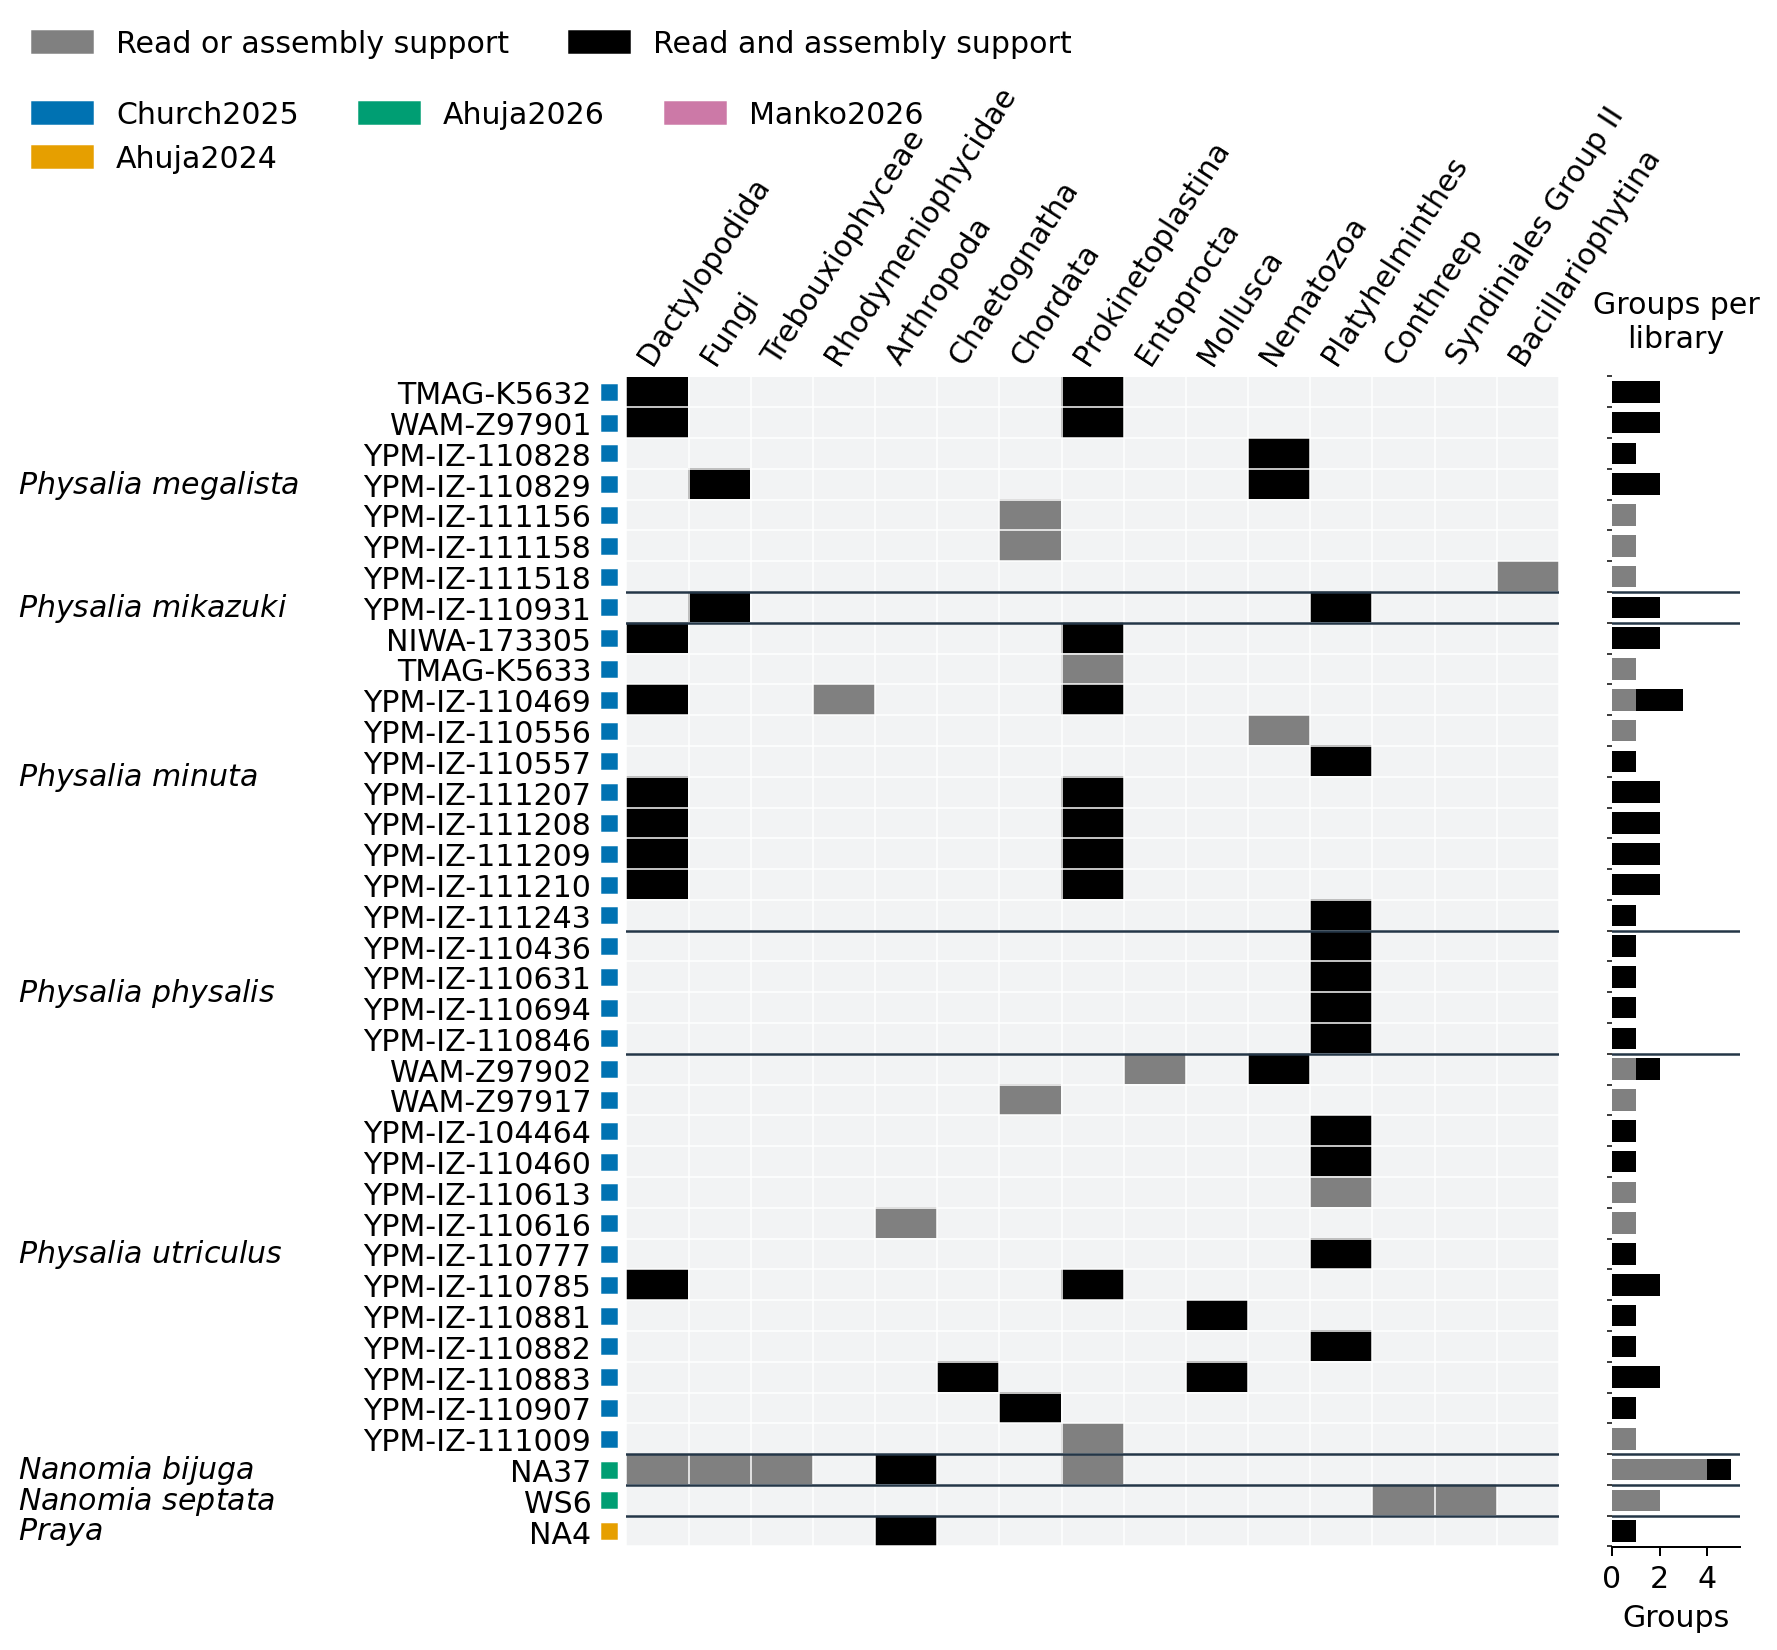
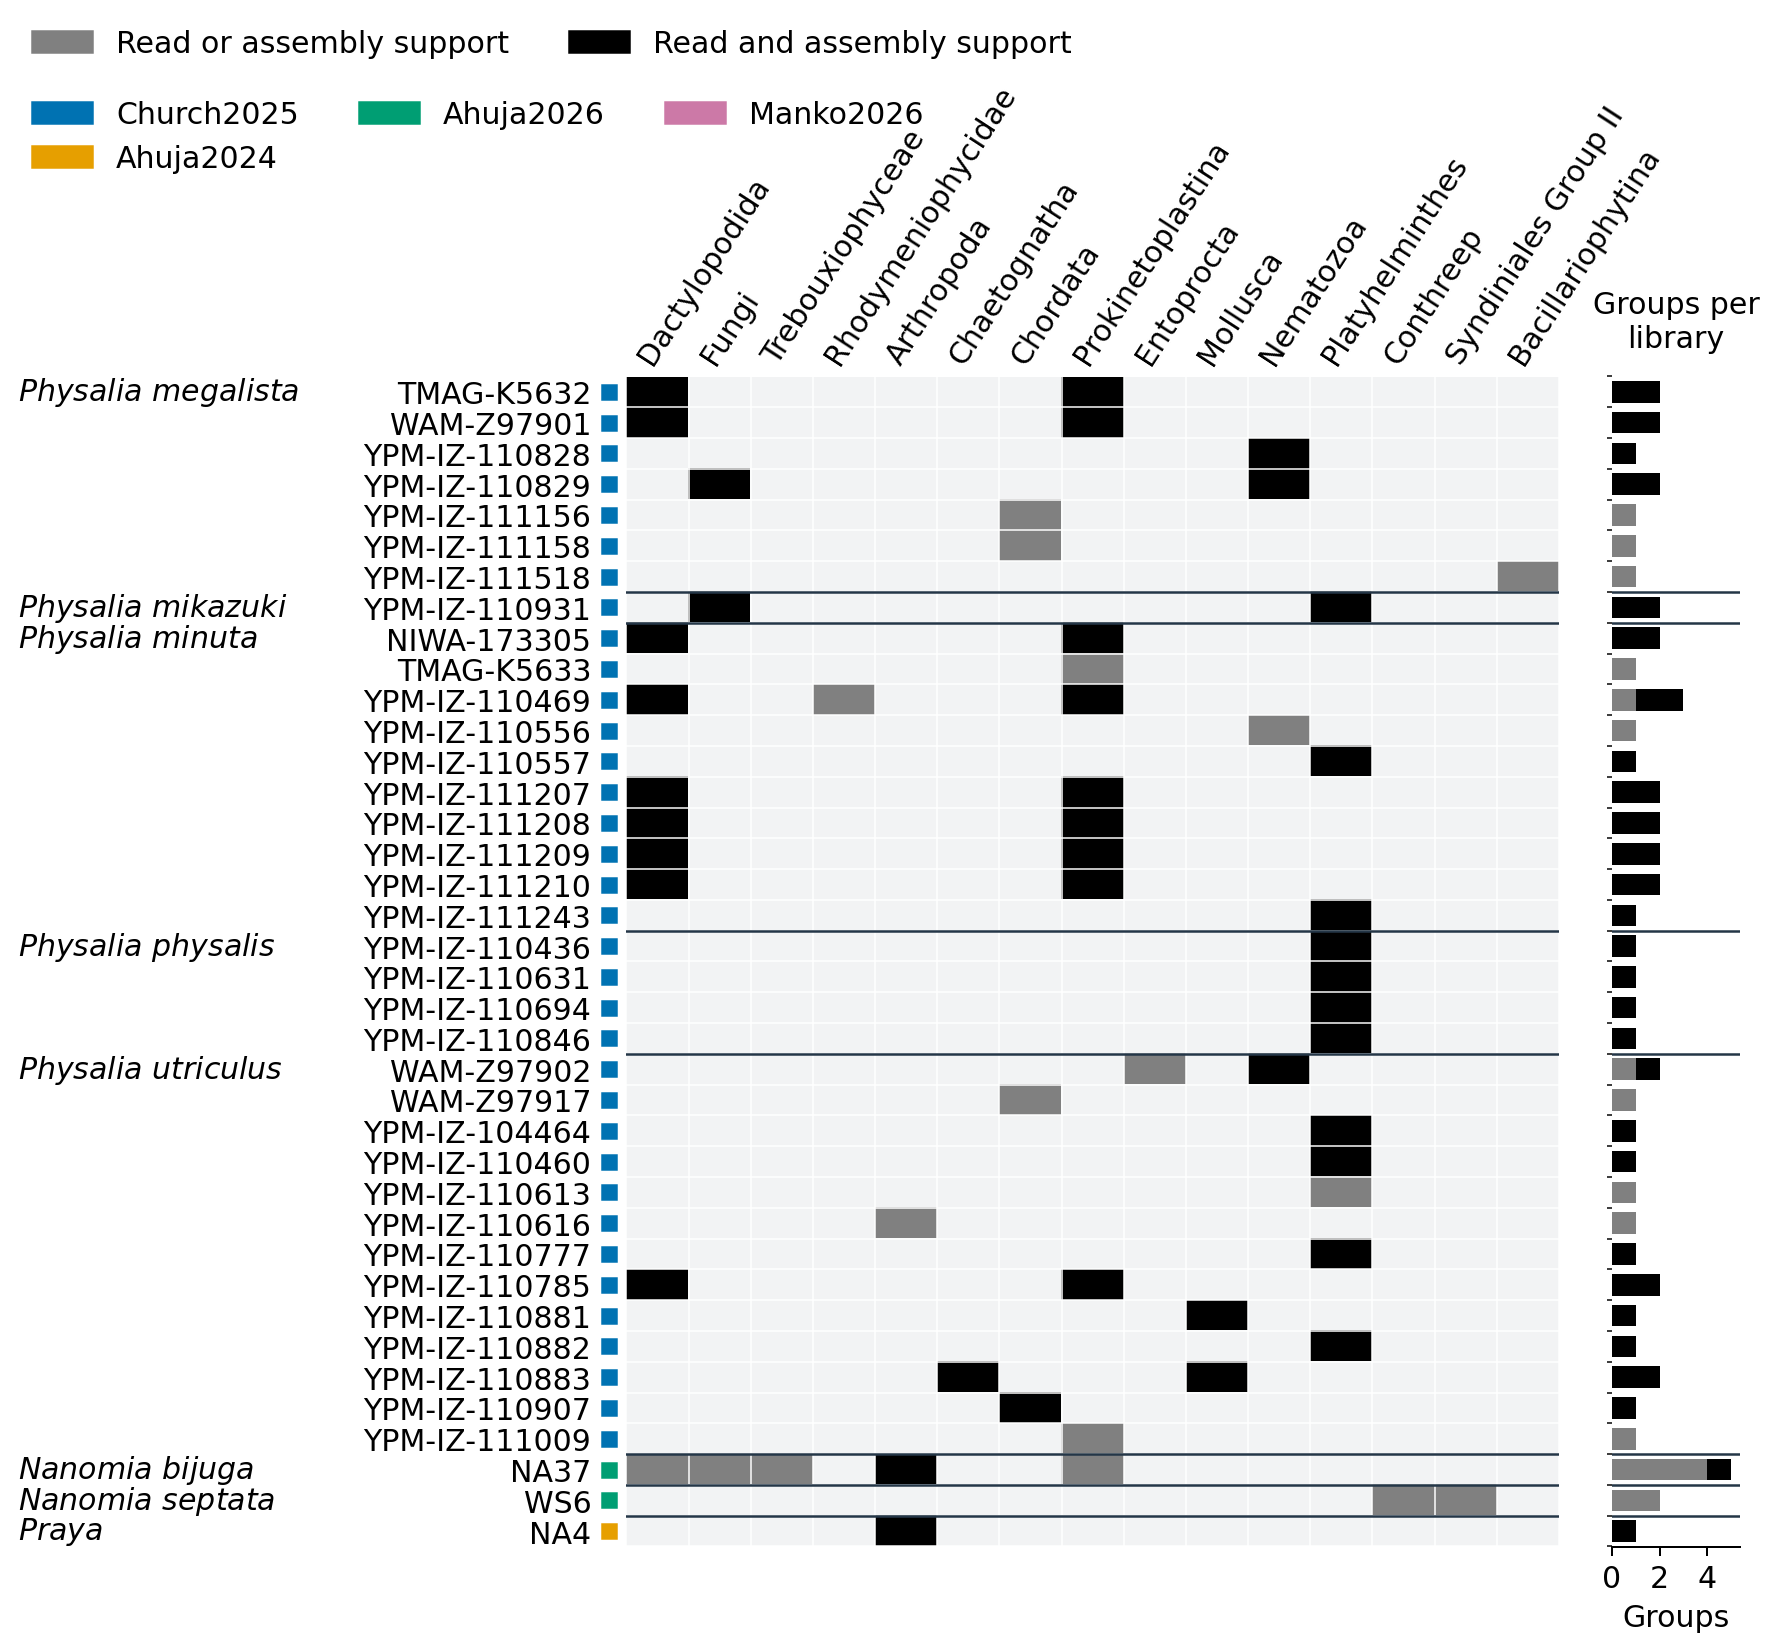
Align host labels with the first specimen in Figure 4
Place each host name on the first sample row in its group so the relationship
between Physalia species and specimen identifiers is clear. Preserve sample
ordering, group separators and evidence colors.

Validation: all five overview source tables are unchanged, as are the two
other overview plot images. Figure 4 was visually inspected after rendering.

diff --git a/figures/overview/provenance/plot_associate_overview.py b/figures/overview/provenance/plot_associate_overview.py
@@ -545,7 +545,7 @@ def draw_eukaryotes(
     for host, indices in host_groups.items():
         ax.text(
             0.035,
-            (indices[0] + indices[-1]) / 2,
+            indices[0],
             formatted_host(host),
             ha="left",
             va="center",

diff --git a/figures/plot_associate_overview.py b/figures/plot_associate_overview.py
@@ -545,7 +545,7 @@ def draw_eukaryotes(
     for host, indices in host_groups.items():
         ax.text(
             0.035,
-            (indices[0] + indices[-1]) / 2,
+            indices[0],
             formatted_host(host),
             ha="left",
             va="center",
